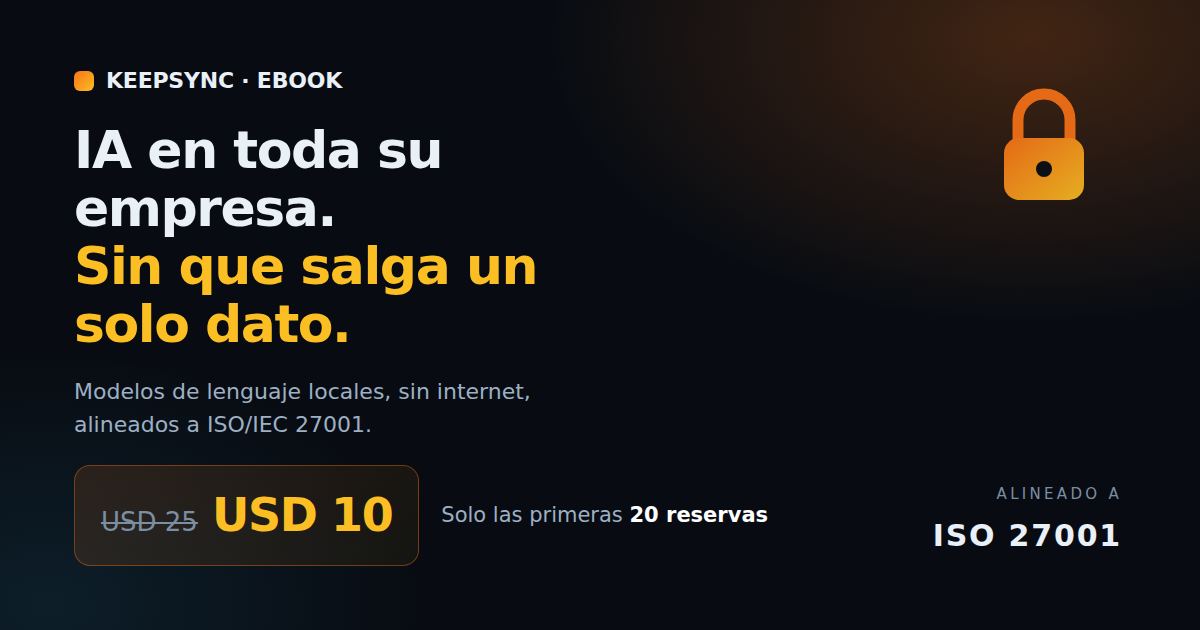
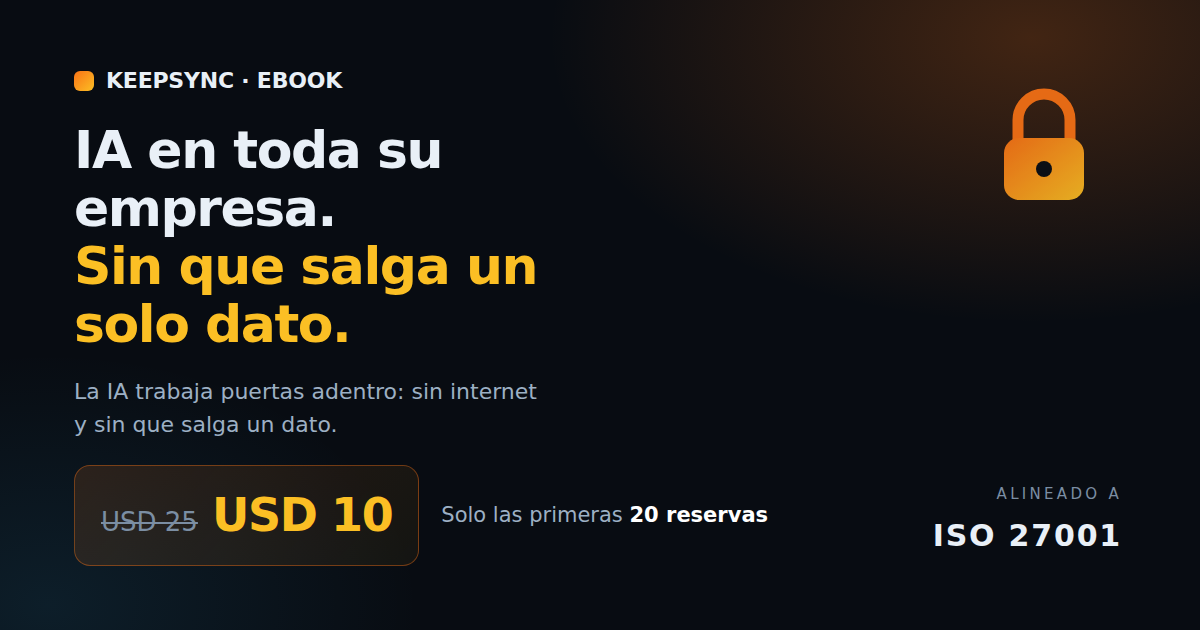
Sacar la jerga técnica de la landing y mover el cómo al ebook
La página explicaba demasiado bien cómo se hace, y eso le quitaba la razón de
ser al ebook. Ahora describe el resultado y la tranquilidad que da, y guarda el
paso a paso para quien reserve.

- Fuera nombres de categorías de software y requisitos de máquina: el foco pasa
  a "funciona dentro del computador que ya tiene, sin conexión".
- La sección del cómo se convierte en lo que cambia, y cierra con el gancho:
  el paso a paso completo es el ebook.
- La tabla de la norma conserva los nombres oficiales de los controles, que es
  lo que un auditor reconoce, pero las respuestas quedan en lenguaje llano.
- El índice y las preguntas frecuentes hablan de decisiones de negocio en vez
  de instalación.

Claude-Session: https://claude.ai/code/session_01BQsMHexwjAB5g9ifUjVrAP

Changed region(s): [[0.0617, 0.6032, 0.4625, 0.6937]]

diff --git a/docs/index.html b/docs/index.html
@@ -4,14 +4,14 @@
 <meta charset="utf-8" />
 <meta name="viewport" content="width=device-width, initial-scale=1" />
 <title>IA Segura ISO 27001 — el ebook para usar IA sin que salga un dato de su empresa</title>
-<meta name="description" content="Cómo desplegar modelos de lenguaje locales en los computadores de su equipo, sin internet y sin fuga de información, alineado a ISO/IEC 27001. Lanzamiento limitado: las primeras 20 reservas pagan USD 10." />
+<meta name="description" content="Cómo poner la inteligencia artificial a trabajar dentro de los computadores que su empresa ya tiene, sin conexión y sin que salga un solo dato, cumpliendo ISO/IEC 27001. Lanzamiento limitado: las primeras 20 reservas pagan USD 10." />
 <link rel="canonical" href="https://keepsync-hub.github.io/ebook-ia-segura-iso27001/" />
 
 <meta property="og:type" content="website" />
 <meta property="og:locale" content="es_LA" />
 <meta property="og:site_name" content="Keepsync" />
 <meta property="og:title" content="IA Segura ISO 27001 — el ebook" />
-<meta property="og:description" content="IA en toda su fuerza laboral, corriendo en los computadores que ya tiene. Sin internet, sin fuga de información, alineado a ISO 27001. Primeras 20 reservas: USD 10 en vez de USD 25." />
+<meta property="og:description" content="IA para toda su gente, trabajando dentro de los computadores que ya tiene. Sin internet, sin fuga de información, alineado a ISO 27001. Primeras 20 reservas: USD 10 en vez de USD 25." />
 <meta property="og:url" content="https://keepsync-hub.github.io/ebook-ia-segura-iso27001/" />
 <meta property="og:image" content="https://keepsync-hub.github.io/ebook-ia-segura-iso27001/assets/og.png" />
 <meta property="og:image:width" content="1200" />
@@ -42,9 +42,9 @@
       <p class="eyebrow">Nuevo ebook · Keepsync</p>
       <h1>Su empresa puede usar IA desde el lunes.<br /><em>Sin que un solo dato salga de sus computadores.</em></h1>
       <p class="lead">
-        Existe una forma de poner un modelo de lenguaje a trabajar en el equipo de cada persona:
-        <strong>corriendo localmente, sin internet y sin enviar nada a un tercero</strong>. En computadores
-        normales, no en servidores. Bajo el mismo estándar de seguridad con el que su gente ya opera hoy.
+        Existe una forma de poner la inteligencia artificial a trabajar en el equipo de cada persona:
+        <strong>dentro del computador, sin conexión y sin enviar nada a un tercero</strong>. Con los equipos
+        que su empresa ya compró. Bajo el mismo estándar de seguridad con el que su gente ya opera hoy.
         Este ebook explica cómo hacerlo, y cómo defenderlo frente a una auditoría ISO&nbsp;27001.
       </p>
 
@@ -141,7 +141,7 @@
           <rect width="420" height="560" fill="url(#g-glow)" />
           <rect x="0" y="0" width="9" height="560" fill="url(#g-accent)" opacity="0.85" />
 
-          <!-- retícula tenue: alude al perímetro/endpoint -->
+          <!-- retícula tenue: alude al perímetro de la empresa -->
           <g stroke="#294055" stroke-width="0.7" opacity="0.5">
             <path d="M44 0v560M420 132H44M420 428H44" />
           </g>
@@ -158,7 +158,7 @@
           <text x="44" y="358" fill="#f1f6fb" font-family="ui-sans-serif,system-ui,sans-serif" font-size="70" font-weight="800" letter-spacing="-1.6">SEGURA</text>
           <text x="44" y="410" fill="#fbbf24" font-family="ui-sans-serif,system-ui,sans-serif" font-size="33" font-weight="700" letter-spacing="5">ISO 27001</text>
 
-          <text x="44" y="474" fill="#9fb3c8" font-family="ui-sans-serif,system-ui,sans-serif" font-size="17">Modelos de lenguaje locales,</text>
+          <text x="44" y="474" fill="#9fb3c8" font-family="ui-sans-serif,system-ui,sans-serif" font-size="17">La IA trabaja puertas adentro:</text>
           <text x="44" y="500" fill="#9fb3c8" font-family="ui-sans-serif,system-ui,sans-serif" font-size="17">sin internet y sin fuga de información.</text>
         </svg>
         <div class="book-edge" aria-hidden="true"></div>
@@ -190,7 +190,7 @@
       <article class="card card-good">
         <h3><span class="tag tag-good">Con este enfoque</span></h3>
         <p>
-          El mismo resumen, pero el modelo corre <b>dentro del computador de esa persona</b>.
+          El mismo resumen, pero el trabajo ocurre <b>dentro del computador de esa persona</b>.
           El dato nunca cruza la red. No hay proveedor al que reclamarle porque no hay proveedor.
         </p>
         <ul>
@@ -206,33 +206,34 @@
 <!-- ─────────────────────────  3. CÓMO FUNCIONA  ───────────────────────── -->
 <section class="band band-alt">
   <div class="wrap">
-    <p class="kicker">Cómo funciona</p>
-    <h2 class="h2">Tres pasos. Ningún servidor nuevo.</h2>
+    <p class="kicker">Lo que cambia</p>
+    <h2 class="h2">Sin proyecto de seis meses. Sin una sola compra.</h2>
     <p class="band-lead">
-      Hoy existen frameworks que empaquetan modelos de lenguaje para que se ejecuten en un computador
-      corriente. El modelo se descarga una vez y desde ahí vive en el disco del equipo: lo que la persona
-      escribe se procesa ahí mismo y la respuesta nunca viaja a ninguna parte.
+      No es una promesa a futuro ni un piloto de laboratorio: ya está funcionando en empresas grandes de
+      la región. Lo que la persona escribe se queda en su computador, se resuelve ahí mismo, y la respuesta
+      nunca viaja a ninguna parte.
     </p>
     <ol class="steps">
       <li>
         <span class="step-n">1</span>
-        <h3>Se instala el motor local</h3>
-        <p>Un framework de despliegue local en el equipo, igual que cualquier otro software corporativo, con el mismo control de cambios y el mismo inventario.</p>
+        <h3>Se habilita en los equipos actuales</h3>
+        <p>Se suma al computador como cualquier otro software corporativo, con el mismo control de cambios y el mismo inventario que su empresa ya lleva.</p>
       </li>
       <li>
         <span class="step-n">2</span>
-        <h3>Se baja el modelo una vez</h3>
-        <p>Un modelo abierto, del tamaño adecuado para el hardware que la empresa ya tiene. Después de eso, el equipo puede quedar sin conexión y sigue funcionando.</p>
+        <h3>Queda funcionando sin conexión</h3>
+        <p>Una puesta en marcha y listo. Desde ahí el equipo puede quedar desconectado de internet y la herramienta sigue respondiendo igual.</p>
       </li>
       <li>
         <span class="step-n">3</span>
-        <h3>La persona delega tareas</h3>
-        <p>Resumir, ordenar, clasificar, redactar, extraer datos de documentos. Todo local. Lo repetitivo deja de consumir su jornada.</p>
+        <h3>La persona delega lo repetitivo</h3>
+        <p>Resumir, ordenar, clasificar, redactar, extraer datos de documentos. Todo puertas adentro. Eso deja de consumir su jornada.</p>
       </li>
     </ol>
     <p class="band-foot">
-      <b>¿Qué hardware hace falta?</b> El notebook corporativo promedio. No hay que comprar GPU, ni levantar
-      un datacenter, ni contratar una nube. Ese es justamente el punto: empezar el día uno con lo que ya existe.
+      <b>¿Y cómo se hace, exactamente?</b> Eso es el ebook: el paso a paso completo, escrito para que su
+      propio equipo lo ejecute sin contratar a nadie. No hay que comprar equipos ni contratar servicios; el
+      punto es partir el día uno con lo que ya existe.
     </p>
   </div>
 </section>
@@ -243,14 +244,14 @@
     <p class="kicker">Cumplimiento</p>
     <h2 class="h2">Qué dice ISO/IEC 27001:2022 y cómo responde este enfoque</h2>
     <p class="band-lead">
-      No se trata de pedir una excepción al SGSI. Se trata de que la IA local <b>cae naturalmente dentro</b>
+      No se trata de pedir una excepción a su política de seguridad. Se trata de que esto <b>ya cae dentro</b>
       de controles que su organización ya implementó. El ebook desarrolla cada uno con el detalle que pide un auditor.
     </p>
     <div class="table-scroll">
       <table class="iso">
-        <caption class="sr-only">Controles del Anexo A de ISO/IEC 27001:2022 y su relación con el despliegue local de modelos</caption>
+        <caption class="sr-only">Controles del Anexo A de ISO/IEC 27001:2022 y cómo los responde este enfoque</caption>
         <thead>
-          <tr><th scope="col">Control del Anexo A</th><th scope="col">Qué exige</th><th scope="col">Cómo responde la IA local</th></tr>
+          <tr><th scope="col">Control del Anexo A</th><th scope="col">Qué exige</th><th scope="col">Cómo lo responde este enfoque</th></tr>
         </thead>
         <tbody>
           <tr>
@@ -266,17 +267,17 @@
           <tr>
             <th scope="row">A.8.1</th>
             <td>Dispositivos endpoint de usuario</td>
-            <td>El modelo es un software más sobre el endpoint gestionado, cubierto por las políticas de hardening, inventario y control de cambios vigentes.</td>
+            <td>Es un software más sobre el equipo que la empresa ya administra, cubierto por las políticas de control de cambios e inventario vigentes.</td>
           </tr>
           <tr>
             <th scope="row">A.8.12</th>
             <td>Prevención de fuga de datos</td>
-            <td>Se elimina el vector de fuga en lugar de vigilarlo: sin tráfico saliente, no hay exfiltración que detectar.</td>
+            <td>Se elimina la vía de fuga en lugar de vigilarla: si la información no sale, no hay nada que interceptar.</td>
           </tr>
           <tr>
             <th scope="row">A.8.16</th>
             <td>Actividades de monitoreo</td>
-            <td>El uso queda dentro del alcance del monitoreo de endpoints que la organización ya opera, sin herramientas nuevas.</td>
+            <td>El uso queda dentro del alcance del monitoreo que la organización ya opera, sin herramientas nuevas.</td>
           </tr>
         </tbody>
       </table>
@@ -299,7 +300,7 @@
       estratégico</b>: los datos con los que efectivamente se toman decisiones de negocio.
     </p>
     <p>
-      Al delegar ese trabajo a un agente que corre de forma local, esas horas desaparecieron del calendario
+      Al delegar ese trabajo a una herramienta que corre dentro del propio computador, esas horas desaparecieron del calendario
       de las personas. Lo que quedó fue agilidad, rapidez y certeza sobre la información —sin que un solo
       dato tuviera que salir de la compañía para lograrlo.
     </p>
@@ -307,7 +308,7 @@
       <p>
         La propuesta de valor de Ricoh se llama <b><em>fulfillment through work</em></b>: la realización a
         través del trabajo. Aumentar las capacidades de cada persona, delegar lo repetitivo a la tecnología
-        y liberar su imaginación para co-crear cosas nuevas. La IA local no reemplaza a nadie: le devuelve
+        y liberar su imaginación para co-crear cosas nuevas. Esto no reemplaza a nadie: le devuelve
         a la gente las horas que la organización estaba gastando en tareas que nadie quería hacer.
       </p>
     </blockquote>
@@ -325,10 +326,10 @@
     </p>
     <ol class="toc">
       <li><span class="route route-exec">Ejecutiva</span><b>El riesgo que ya está corriendo</b><span>Shadow AI, qué se está enviando hoy y por qué nadie lo ve.</span></li>
-      <li><span class="route route-exec">Ejecutiva</span><b>Por qué local resuelve el problema de raíz</b><span>El argumento completo para un comité de seguridad, sin tecnicismos.</span></li>
+      <li><span class="route route-exec">Ejecutiva</span><b>Por qué esto resuelve el problema de raíz</b><span>El argumento completo para un comité de seguridad, sin tecnicismos.</span></li>
       <li><span class="route route-both">Ambas</span><b>El mapa contra ISO/IEC 27001:2022</b><span>Control por control, con el texto para la declaración de aplicabilidad.</span></li>
-      <li><span class="route route-tech">Técnica</span><b>Elegir el framework y el modelo</b><span>Criterios de selección según el parque de equipos que ya tiene.</span></li>
-      <li><span class="route route-tech">Técnica</span><b>Despliegue en el parque existente</b><span>Instalación, hardening, control de cambios e inventario.</span></li>
+      <li><span class="route route-tech">Técnica</span><b>Qué elegir y con qué criterio</b><span>Cómo decidir la opción correcta según los equipos que ya tiene.</span></li>
+      <li><span class="route route-tech">Técnica</span><b>La puesta en marcha, paso a paso</b><span>Cómo dejarlo andando en los equipos actuales sin romper nada de lo que ya funciona.</span></li>
       <li><span class="route route-both">Ambas</span><b>Las primeras diez tareas a delegar</b><span>Dónde aparece el retorno en las primeras semanas, con ejemplos.</span></li>
       <li><span class="route route-exec">Ejecutiva</span><b>Cómo medirlo y cómo contarlo</b><span>Indicadores, y cómo presentar el avance al directorio.</span></li>
     </ol>
@@ -342,12 +343,12 @@
     <h2 class="h2">Lo que suelen preguntar antes de reservar</h2>
     <div class="faq">
       <details>
-        <summary>¿Necesito comprar GPU o levantar servidores?</summary>
-        <p>No. El enfoque del libro parte del parque de equipos que la empresa ya tiene. Si sus equipos corren las herramientas de oficina habituales, corren un modelo local del tamaño adecuado. El capítulo de selección explica cómo elegir ese tamaño.</p>
+        <summary>¿Hay que comprar equipos nuevos?</summary>
+        <p>No. Todo parte de los computadores que la empresa ya tiene. Si sirven para las herramientas de oficina habituales, sirven para esto. El libro explica cómo confirmarlo en su caso y qué hacer con los pocos equipos que se queden cortos.</p>
       </details>
       <details>
         <summary>¿Funciona realmente sin internet?</summary>
-        <p>Sí. La conexión se necesita una sola vez, para descargar el modelo. Después el equipo puede quedar aislado y la herramienta sigue respondiendo, porque todo el procesamiento ocurre en el disco y la memoria de ese computador.</p>
+        <p>Sí. La conexión se necesita una sola vez, para la puesta en marcha. Después el equipo puede quedar aislado y la herramienta sigue respondiendo, porque todo el trabajo ocurre dentro de ese computador.</p>
       </details>
       <details>
         <summary>¿Esto reemplaza a mi gente?</summary>
